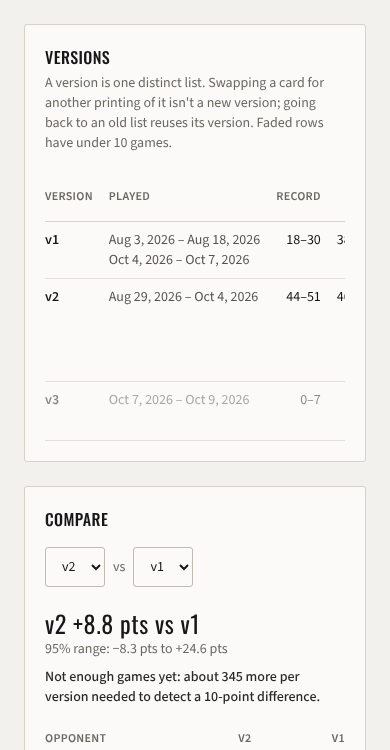
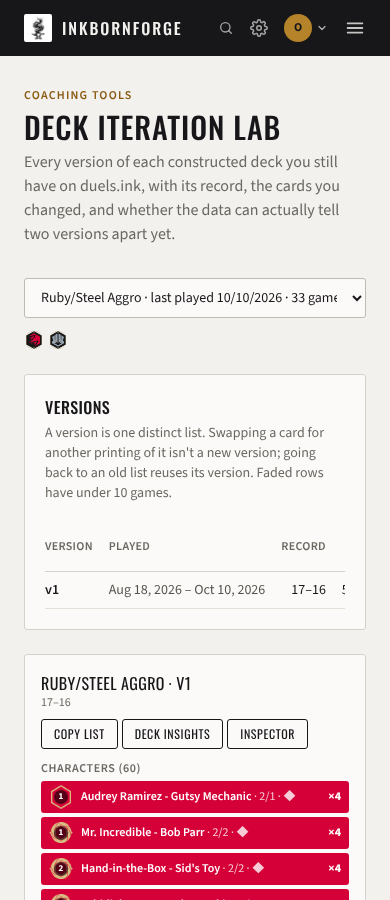
Deck Lab: hide sealed and deleted decks, most recently played first (#316)
Sealed and draft games are dropped (deckDoctor's isLimited, now exported),
and only decks still in your duels.ink deck list are shown, since a deck
missing there was deleted. A failed deck-list fetch is now an error rather
than a silent fallback. Decks sort by last played, shown in the picker.

DeckListCard gets min-w-0: as a grid item it grew to fit long card names,
so Deck Lab and Stock Decks scrolled sideways on phones (472px at 390px
on Stock Decks with real duels.ink data).

Claude-Session: https://claude.ai/code/session_01TJQgszkQSZFDTXzFm7ooCC

diff --git a/src/pages/DeckLabPage.jsx b/src/pages/DeckLabPage.jsx
@@ -4,6 +4,7 @@ import { getToken, subscribeTokens, fetchAllMatchHistory, fetchDecks } from '../
 import { useCards } from '../hooks/useCards'
 import { buildCardIdToName } from '../lib/cardIdResolver'
 import { fromMatchHistoryRow, buildDeckVersions } from '../lib/deckVersions'
+import { isLimited } from '../lib/deckDoctor'
 import { PageHeader } from '../components/ui/PageHeader'
 import { Card } from '../components/ui/Card'
 import { Select } from '../components/ui/Field'
@@ -12,12 +13,6 @@ import { DeckListCard } from '../components/DeckListCard'
 import { DeckVersionTimeline } from '../components/deckVersions/DeckVersionTimeline'
 import { DeckVersionCompare } from '../components/deckVersions/DeckVersionCompare'
 
-const DECK_NAMES_KEY = 'lorcana_deck_names'
-
-function readDeckNames() {
-  try { return JSON.parse(localStorage.getItem(DECK_NAMES_KEY)) ?? {} } catch { return {} }
-}
-
 export function DeckLabPage() {
   // Tokens load from Supabase after sign-in, possibly after first render.
   const hasToken = !!useSyncExternalStore(subscribeTokens, getToken)
@@ -25,7 +20,8 @@ export function DeckLabPage() {
   const [games, setGames] = useState(null)
   const [loaded, setLoaded] = useState(0)
   const [loadError, setLoadError] = useState(null)
-  const [deckNames, setDeckNames] = useState(readDeckNames)
+  // Your current duels.ink decks, id → name. A deck missing here was deleted, so it isn't shown.
+  const [activeDecks, setActiveDecks] = useState(null)
   const [pick, setPick] = useState({})
   const { cards, loading: cardsLoading } = useCards()
 
@@ -34,20 +30,26 @@ export function DeckLabPage() {
     // ponytail: pages are fetched back to back; a history past ~20 pages (5,000 games) can hit duels.ink's 20 requests/minute limit and fail.
     fetchAllMatchHistory({ limit: 250, maxPages: Infinity, onPage: setLoaded })
       .then(setGames)
-      .catch(err => setLoadError(err.message))
+      .catch(err => setLoadError(`your match history (${err.message})`))
     fetchDecks()
-      .then(data => setDeckNames(prev => ({ ...prev, ...Object.fromEntries((data.decks ?? []).filter(d => d.id && d.name).map(d => [d.id, d.name])) })))
-      .catch(() => {}) // names are cosmetic; decks fall back to their colors
+      .then(data => setActiveDecks(new Map(data.decks.map(d => [d.id, d.name]))))
+      .catch(err => setLoadError(`your deck list (${err.message})`))
   }, [hasToken])
 
   const built = useMemo(() => {
-    if (!games || cardsLoading) return null
+    if (!games || !activeDecks || cardsLoading) return null
     try {
-      return buildDeckVersions(games.map(fromMatchHistoryRow), buildCardIdToName(cards))
+      const built = buildDeckVersions(games.filter(g => !isLimited(g)).map(fromMatchHistoryRow), buildCardIdToName(cards))
+      // Most recently played first, so the deck you're iterating on now is the default.
+      const decks = built.decks
+        .filter(d => activeDecks.has(d.deckKey))
+        .map(d => ({ ...d, lastPlayed: d.versions.flatMap(v => v.spans).reduce((max, s) => (s.to > max ? s.to : max), '') }))
+        .sort((a, b) => b.lastPlayed.localeCompare(a.lastPlayed))
+      return { ...built, decks }
     } catch (err) {
       return { error: err.message }
     }
-  }, [games, cards, cardsLoading])
+  }, [games, activeDecks, cards, cardsLoading])
 
   const colorsByDeck = useMemo(() => {
     const out = {}
@@ -71,13 +73,13 @@ export function DeckLabPage() {
   const setLabel = (side, label) => setPick({ ...labels, deckKey: deck.deckKey, [side]: label })
 
   const entries = v => [...v.cards].map(([name, count]) => ({ key: name, name, count, card: cardByName[name] ?? null }))
-  const deckTitle = d => deckNames[d.deckKey] ?? 'Unnamed deck'
+  const deckTitle = d => activeDecks.get(d.deckKey) || 'Unnamed deck'
 
   return (
     <div className="w-full px-6 py-8">
       <PageHeader
         title="Deck Iteration Lab"
-        description="Every version of each deck you've played on duels.ink, with its record, the cards you changed, and whether the data can actually tell two versions apart yet."
+        description="Every version of each constructed deck you still have on duels.ink, with its record, the cards you changed, and whether the data can actually tell two versions apart yet."
       />
 
       {!hasToken && (
@@ -85,7 +87,7 @@ export function DeckLabPage() {
           Add your duels.ink API token in <Link to="/settings" className="underline">Settings</Link> to load your match history.
         </p>
       )}
-      {loadError && <p className="text-red-700">Couldn't load match history: {loadError}</p>}
+      {loadError && <p className="text-red-700">Couldn't load {loadError}.</p>}
       {built?.error && <p className="text-red-700">Couldn't build deck versions: {built.error}</p>}
       {hasToken && !loadError && !built && (
         <p className="text-gray-500">Loading match history… {loaded.toLocaleString()} games so far</p>
@@ -94,10 +96,10 @@ export function DeckLabPage() {
       {deck && (
         <div className="space-y-6">
           <div className="flex flex-wrap items-center gap-3">
-            <Select value={deck.deckKey} onChange={e => setSearchParams({ deck: e.target.value })} aria-label="Deck">
+            <Select value={deck.deckKey} onChange={e => setSearchParams({ deck: e.target.value })} aria-label="Deck" className="max-w-full">
               {decks.map(d => (
                 <option key={d.deckKey} value={d.deckKey}>
-                  {deckTitle(d)} · {d.games} games · {d.versions.length} {d.versions.length === 1 ? 'version' : 'versions'}
+                  {deckTitle(d)} · last played {new Date(d.lastPlayed).toLocaleDateString()} · {d.games} games · {d.versions.length} {d.versions.length === 1 ? 'version' : 'versions'}
                 </option>
               ))}
             </Select>
@@ -135,7 +137,7 @@ export function DeckLabPage() {
         <p className="mt-6 text-sm text-gray-500">
           {built.unassigned.length > 0
             ? `Unassigned: ${built.unassigned.length.toLocaleString()} games have no deck id or no recorded list, so they aren't in any version.`
-            : !deck && 'No games with a deck list yet.'}
+            : !deck && 'None of your current duels.ink decks has games yet.'}
         </p>
       )}
     </div>

diff --git a/src/components/DeckListCard.jsx b/src/components/DeckListCard.jsx
@@ -26,7 +26,7 @@ export function DeckListCard({ title, subtitle, entries, children }) {
   }
 
   return (
-    <Card className="p-4">
+    <Card className="p-4 min-w-0">
       <h3 className="font-display uppercase tracking-wide text-gray-900">{title}</h3>
       {subtitle && <div className="text-xs text-gray-500">{subtitle}</div>}
       <div className="flex flex-wrap gap-1 mt-2 mb-3">

diff --git a/src/lib/deckDoctor.js b/src/lib/deckDoctor.js
@@ -50,7 +50,8 @@ export function countsFromPasted(entries, cards, knownIds) {
   return m
 }
 
-function isLimited(g) {
+// Sealed and draft games: their decks are built per event, not iterated on.
+export function isLimited(g) {
   const s = `${g.queue_id ?? ''} ${g.queue_name ?? ''}`.toLowerCase()
   return s.includes('sealed') || s.includes('draft')
 }

diff --git a/docs/agents/duels-data.md b/docs/agents/duels-data.md
@@ -109,7 +109,7 @@ Every read of the undocumented fields is null-safe and hides its own section. Wi
 
 ## Deck Iteration Lab
 
-`DeckLabPage` (`/deck-lab`, supporter-gated, Coaching Tools) loads the whole match history (`fetchAllMatchHistory({ limit: 250, maxPages: Infinity, onPage })`, progress shown as it pages) and runs it through `deckVersions.js`: `fromMatchHistoryRow()` → `buildDeckVersions(games, buildCardIdToName(cards))`. Versions are keyed by card *name*, so a reprint or promo swap stays one version (`docs/FEATURE_PROPOSALS.md` §3 has the evidence). A card id missing from LorcanaJSON makes `buildDeckVersions()` throw, and the page shows that error rather than guessing. The timeline and compare views are `components/deckVersions/DeckVersionTimeline` and `DeckVersionCompare`, built to be reused by Match History and Analytics (build steps 4 and 5). Deck names come from `lorcana_deck_names` plus `fetchDecks()`; `?deck=<your_deck_id>` selects a deck.
+`DeckLabPage` (`/deck-lab`, supporter-gated, Coaching Tools) loads the whole match history (`fetchAllMatchHistory({ limit: 250, maxPages: Infinity, onPage })`, progress shown as it pages) and runs it through `deckVersions.js`: `fromMatchHistoryRow()` → `buildDeckVersions(games, buildCardIdToName(cards))`. Versions are keyed by card *name*, so a reprint or promo swap stays one version (`docs/FEATURE_PROPOSALS.md` §3 has the evidence). A card id missing from LorcanaJSON makes `buildDeckVersions()` throw, and the page shows that error rather than guessing. The timeline and compare views are `components/deckVersions/DeckVersionTimeline` and `DeckVersionCompare`, built to be reused by Match History and Analytics (build steps 4 and 5). Sealed and draft games are dropped first (`isLimited()` from `deckDoctor.js`), and only decks still returned by `fetchDecks()` (your current duels.ink decks, which also supply the names) are shown, since a deck missing there was deleted and isn't being iterated on; a failed `fetchDecks()` is an error, not a silent fallback. Decks are listed most recently played first. `?deck=<your_deck_id>` selects a deck.
 
 ## Stock Deck Lists
 

diff --git a/docs/TOOLS.md b/docs/TOOLS.md
@@ -192,7 +192,7 @@ Pick one of your decks from match history (or paste a list) and see it beside th
 ### Deck Iteration Lab
 `/deck-lab` · Supporter · needs a duels.ink token
 
-Every version of each deck you've played, read from your full match history. A version is one distinct list; swapping a card for another printing of it isn't a new version, and going back to an old list reuses its version. Each version shows when you played it, its record and win rate with a 95% range (faded under 10 games), and the cards changed from the previous version. Compare any two versions to see the win-rate difference with its range, a plain verdict (ahead with reasonable confidence, no clear difference, or how many more games each version needs), and both records by opponent colors. `?deck=<deck id>` opens a deck directly.
+Every version of each constructed deck you still have on duels.ink, read from your full match history; sealed and draft games and deleted decks are left out. A version is one distinct list; swapping a card for another printing of it isn't a new version, and going back to an old list reuses its version. Each version shows when you played it, its record and win rate with a 95% range (faded under 10 games), and the cards changed from the previous version. Compare any two versions to see the win-rate difference with its range, a plain verdict (ahead with reasonable confidence, no clear difference, or how many more games each version needs), and both records by opponent colors. `?deck=<deck id>` opens a deck directly.
 
 ### Gamelog Viewer
 `/gamelog?id=<gamelog id>` · Free · needs a duels.ink token
